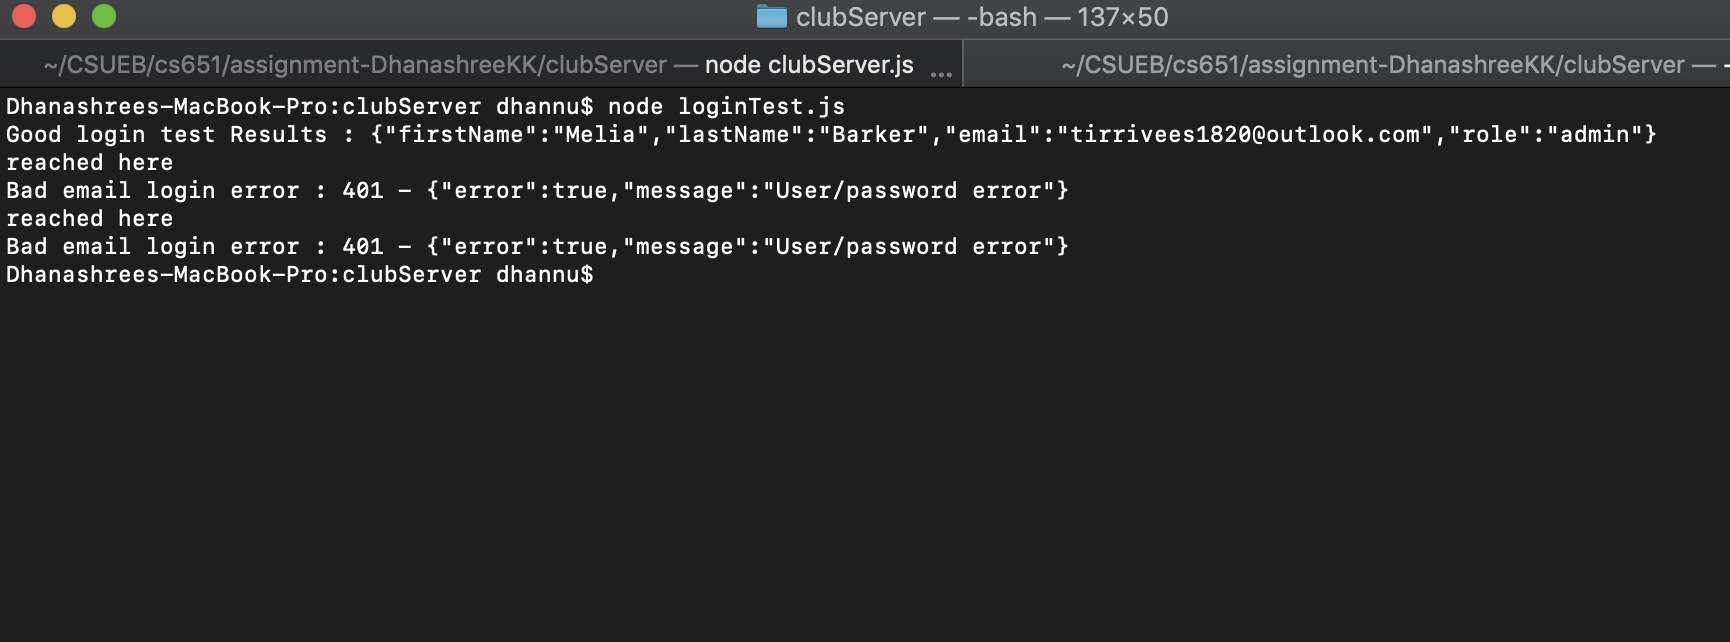
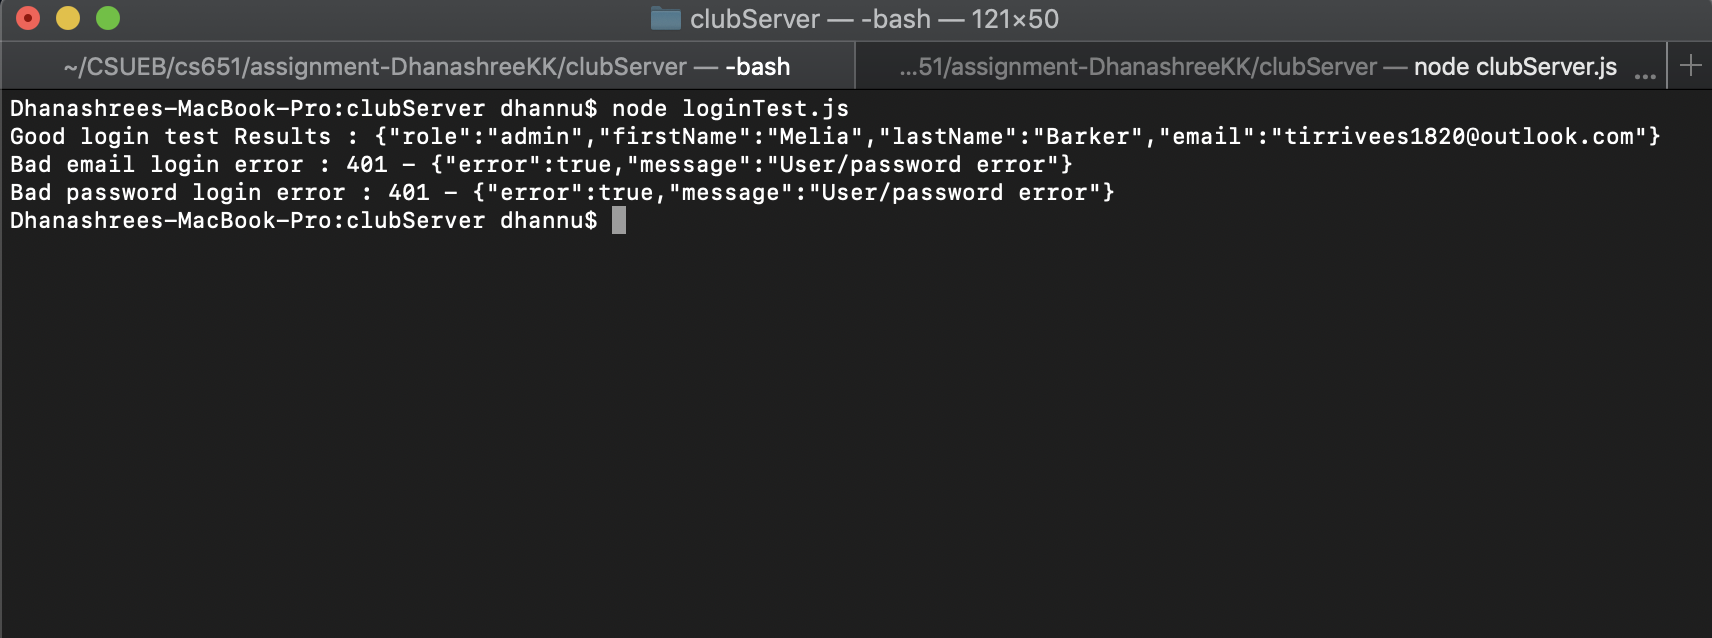
Answer to question 3 and adding screenshots

Changed region(s): [[0.0, 0.0, 1.0, 0.4467]]

diff --git a/clubServer/loginTest.js b/clubServer/loginTest.js
@@ -1,5 +1,12 @@
 const rp = require('request-promise-native');
+let cookiejar = rp.jar();
 
+let getActivities = {
+    url: 'http://127.0.0.1:1711/activities',
+    method: 'GET', // What does this do?
+    resolveWithFullResponse: false,
+    jar:cookiejar
+};
 
 let postGoodEmailPass = {
     url: 'http://127.0.0.1:1711/login',
@@ -8,7 +15,8 @@ let postGoodEmailPass = {
     body: {
     	email: "tirrivees1820@outlook.com",
     	password: "49OqspUq"
-	}
+    },
+    jar: cookiejar
 };
 
 let postGoodEmailIncorrectPass = {
@@ -18,7 +26,8 @@ let postGoodEmailIncorrectPass = {
     body: {
         email: "chihuahua1899@gmail.com",
         password: "Ckp12311"
-    }
+    },
+    jar: cookiejar
 };
 
 let postBadEmailIncorrectPass = {
@@ -28,10 +37,91 @@ let postBadEmailIncorrectPass = {
     body: {
         email: "user@email.com",
         password: "Ckp12311"
-    }
+    },
+    jar: cookiejar
+};
+let logoutCall = {
+    url: 'http://127.0.0.1:1711/logout',
+    method: 'GET', // What does this do?
+    resolveWithFullResponse: false,
+    jar: cookiejar
 };
 
 async function tests()
+{
+    //Test 1 check 1)call activities 2) call post good login (correct email, password), 3) logout.........
+    try {
+        //...........call activities........
+        console.log("Login Test 1: GoodLogin");
+        let res = await rp(getActivities);
+        console.log(`Called Activities ,Cookies: ${cookiejar.getCookieString(getActivities.url)}`);
+    }
+    catch (e) {
+        console.log(e);
+    }
+
+    //Call to check good email and password
+    try {
+        //...........good login........
+        let res = await rp(postGoodEmailPass);
+        console.log("Good login test Results :",JSON.stringify(res));
+        console.log(`After Good Login ,Cookies: ${cookiejar.getCookieString(postGoodEmailPass.url)}`);
+    }
+    catch (e) {
+        console.log(e);
+    }
+    //Logout call
+    try {
+        //...........log out........
+        let res = await rp(logoutCall);
+        //console.log("Good login test Results :",JSON.stringify(res));
+        console.log(`After Logout ,Cookies: ${cookiejar.getCookieString(logoutCall.url)}`);
+    }
+    catch (e) {
+        console.log(e);
+    }
+    //Test 2 check 1)call activities 2) call post bad login (incorrect email, password)....
+    try {
+        //...........call activities........
+        console.log("Login Test 2: Bad Email");
+        let res = await rp(getActivities);
+        console.log(`Called Activities ,Cookies: ${cookiejar.getCookieString(getActivities.url)}`);
+    }
+    catch (e) {
+        console.log(e);
+    }
+    //Call to check bad email and password
+    try {
+        //...........bad login with bad email........
+        let res = await rp(postBadEmailIncorrectPass);
+    }
+    catch (e) {
+       console.log("Bad email login error :",e.message);
+       console.log(`After Login Test 2 ,Cookies: ${cookiejar.getCookieString(postBadEmailIncorrectPass.url)}`);
+   }
+   
+     //Test 3 check 1) call post bad login (correct email, incorrectpassword)........
+     //Call to check good email and incorrect password
+     try {
+        //...........call activities........
+        console.log("Login Test 3: Bad Password");
+        let res = await rp(getActivities);
+        console.log(`Called Activities ,Cookies: ${cookiejar.getCookieString(getActivities.url)}`);
+    }
+    catch (e) {
+        console.log(e);
+    }
+     try {
+        let res = await rp(postGoodEmailIncorrectPass);
+    }
+    catch (e) {
+        console.log("Bad password login error :",e.message);
+        console.log(`After Login Test 3 ,Cookies: ${cookiejar.getCookieString(postGoodEmailIncorrectPass.url)}`);
+    }
+}
+
+//...........Second Question Test.........
+/*async function tests()
 {
     //Call to check good email and password
     try {
@@ -47,7 +137,6 @@ async function tests()
         //console.log("Bad login error :",JSON.stringify(res));
     }
     catch (e) {
-        console.log("reached here");
          console.log("Bad email login error :",e.message);
     }
 
@@ -56,11 +145,11 @@ async function tests()
         let res = await rp(postGoodEmailIncorrectPass);
     }
     catch (e) {
-        console.log("reached here");
-        console.log("Bad email login error :",e.message);
+        console.log("Bad password login error :",e.message);
        // console.log(e);
     }
 
-}
+}*/
+
 
 tests();

diff --git a/clubServer/clubServer.js b/clubServer/clubServer.js
@@ -1,12 +1,32 @@
 const express = require('express');
 const app = express();
 const users = require('./clubUsersHash.json');
+var session = require('express-session')
 const bcrypt = require('bcryptjs');
 
 let activityJson = require('./activities.json');
 
 let errorResponse = {"error": true, "message":"bad activity"}
 let errorResponse2 = {"error": true, "message":"bad index"}
+
+const cookieName = "hs4947Clubsid"; // Session ID cookie name, use this to delete cookies too.
+app.use(session({
+    secret: 'club website development',
+    resave: false,
+    saveUninitialized: false,
+    name: cookieName // Sets the name of the cookie used by the session middleware
+}));
+// This initializes session state
+const setUpSessionMiddleware = function (req, res, next) {
+    console.log(`session object: ${JSON.stringify(req.session)}`);
+    console.log(`session id: ${req.session.id}`);
+    if (!req.session.user) {
+        req.session.user = {role: "guest"};
+    };
+    next();
+};
+
+app.use(setUpSessionMiddleware);
 
 app.get('/activities', function (req, res) {
     //res.send(`${JSON.stringify(activityJson)}`);
@@ -57,9 +77,18 @@ app.post('/login', express.json(), function(req, res) {
     //Match password using bcrypt
     let verified = bcrypt.compareSync(password, user.passHash)
      if(verified) {
-       let newUserInfo = {"firstName":user.firstName,"lastName":user.lastName,"email":user.email,"role":user.role};
-       console.log(`path /addThing received: ${JSON.stringify(req.body)}`);
-       res.json(newUserInfo);
+
+       let oldInfo = req.session.user;
+        req.session.regenerate(function (err) {
+            if (err) {console.log(err);}
+            let newUserInfo = Object.assign(oldInfo, user);
+            delete newUserInfo.passHash;
+            req.session.user = newUserInfo;
+            res.json(newUserInfo);
+        });
+       // let newUserInfo = {"firstName":user.firstName,"lastName":user.lastName,"email":user.email,"role":user.role};
+       // console.log(`path /addThing received: ${JSON.stringify(req.body)}`);
+       // res.json(newUserInfo);
      }
      else{
          res.status(401).json ({error:true, message:"User/password error"});
@@ -67,6 +96,17 @@ app.post('/login', express.json(), function(req, res) {
      } 
 
   });
+
+  app.get('/logout', function (req, res) {
+    let options = req.session.cookie;
+    req.session.destroy(function (err) {
+        if (err) {
+            console.log(err);
+        }
+        res.clearCookie(cookieName, options); // the cookie name and options
+        res.json({message: "Goodbye"});
+    })
+});     
 
 
   app.use(function deleteErrorHandling(err, req, res, next) {

diff --git a/README.md b/README.md
@@ -92,8 +92,154 @@ app.post('/login', express.json(), function(req, res) {
 ## Question 3
 
 ### (a)   
+``` javascript
+//Server intialization of session
+const cookieName = "hs4947Clubsid"; // Session ID cookie name, use this to delete cookies too.
+app.use(session({
+    secret: 'club website development',
+    resave: false,
+    saveUninitialized: false,
+    name: cookieName // Sets the name of the cookie used by the session middleware
+}));
+// This initializes session state
+const setUpSessionMiddleware = function (req, res, next) {
+    console.log(`session object: ${JSON.stringify(req.session)}`);
+    console.log(`session id: ${req.session.id}`);
+    if (!req.session.user) {
+        req.session.user = {role: "guest"};
+    };
+    next();
+};
+
+app.use(setUpSessionMiddleware);
+```
+
+### (b)
+![ScreenShot](images/ScreenShot67.png)
+
+### (c)
+Updated login code :
+``` javascript
+app.post('/login', express.json(), function(req, res) {
+ 
+    let email = req.body.email; 
+    let password = req.body.password;
+
+    //Find user in json by comparing email
+    let user = users.find(function(user){
+       return user.email === email;
+    });
+    
+    if(!user){
+       res.status(401).json ({error:true, message:"User/password error"});
+       return;
+    }
+
+    //Match password using bcrypt
+    let verified = bcrypt.compareSync(password, user.passHash)
+     if(verified) {
+
+       let oldInfo = req.session.user;
+        req.session.regenerate(function (err) {
+            if (err) {console.log(err);}
+            let newUserInfo = Object.assign(oldInfo, user);
+            delete newUserInfo.passHash;
+            req.session.user = newUserInfo;
+            res.json(newUserInfo);
+        });
+       // let newUserInfo = {"firstName":user.firstName,"lastName":user.lastName,"email":user.email,"role":user.role};
+       // console.log(`path /addThing received: ${JSON.stringify(req.body)}`);
+       // res.json(newUserInfo);
+     }
+     else{
+         res.status(401).json ({error:true, message:"User/password error"});
+       return;
+     } 
+
+  });
+```
+### (d)
 
 
+### (e)
+Updated LoginTest code:
+``` loginTest.js
+async function tests()
+{
+    //Test 1 check 1)call activities 2) call post good login (correct email, password), 3) logout.........
+    try {
+        //...........call activities........
+        console.log("Login Test 1: GoodLogin");
+        let res = await rp(getActivities);
+        console.log(`Called Activities ,Cookies: ${cookiejar.getCookieString(getActivities.url)}`);
+    }
+    catch (e) {
+        console.log(e);
+    }
+
+    //Call to check good email and password
+    try {
+        //...........good login........
+        let res = await rp(postGoodEmailPass);
+        console.log("Good login test Results :",JSON.stringify(res));
+        console.log(`After Good Login ,Cookies: ${cookiejar.getCookieString(postGoodEmailPass.url)}`);
+    }
+    catch (e) {
+        console.log(e);
+    }
+    //Logout call
+    try {
+        //...........log out........
+        let res = await rp(logoutCall);
+        //console.log("Good login test Results :",JSON.stringify(res));
+        console.log(`After Logout ,Cookies: ${cookiejar.getCookieString(logoutCall.url)}`);
+    }
+    catch (e) {
+        console.log(e);
+    }
+    //Test 2 check 1)call activities 2) call post bad login (incorrect email, password)....
+    try {
+        //...........call activities........
+        console.log("Login Test 2: Bad Email");
+        let res = await rp(getActivities);
+        console.log(`Called Activities ,Cookies: ${cookiejar.getCookieString(getActivities.url)}`);
+    }
+    catch (e) {
+        console.log(e);
+    }
+    //Call to check bad email and password
+    try {
+        //...........bad login with bad email........
+        let res = await rp(postBadEmailIncorrectPass);
+    }
+    catch (e) {
+       console.log("Bad email login error :",e.message);
+       console.log(`After Login Test 2 ,Cookies: ${cookiejar.getCookieString(postBadEmailIncorrectPass.url)}`);
+   }
+   
+     //Test 3 check 1) call post bad login (correct email, incorrectpassword)........
+     //Call to check good email and incorrect password
+     try {
+        //...........call activities........
+        console.log("Login Test 3: Bad Password");
+        let res = await rp(getActivities);
+        console.log(`Called Activities ,Cookies: ${cookiejar.getCookieString(getActivities.url)}`);
+    }
+    catch (e) {
+        console.log(e);
+    }
+     try {
+        let res = await rp(postGoodEmailIncorrectPass);
+    }
+    catch (e) {
+        console.log("Bad password login error :",e.message);
+        console.log(`After Login Test 3 ,Cookies: ${cookiejar.getCookieString(postGoodEmailIncorrectPass.url)}`);
+    }
+}
+
+```
+
+![ScreenShot](images/ScreenShot68.png)
 
 ## Question 4
 
